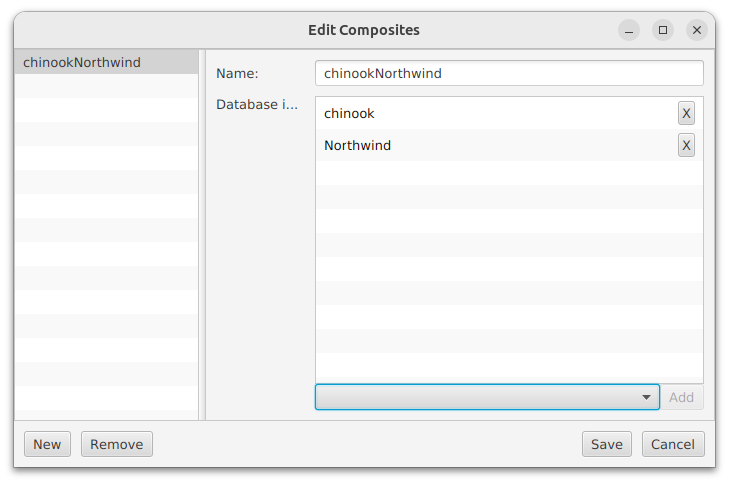
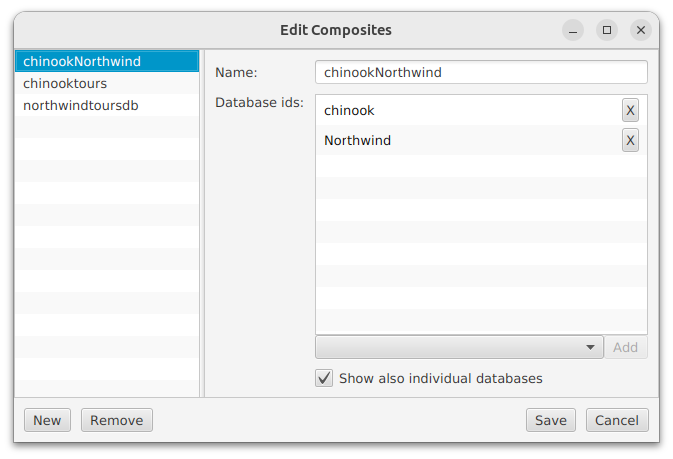
documentation fix

Changed region(s): [[0.0, 0.0, 0.9985, 0.976]]

diff --git a/docs/Compositest-editor.md b/docs/Compositest-editor.md
@@ -20,14 +20,17 @@ Once a composite is chosen on the list, the right side of the editor shows the d
 The databases must be **already in the databases list** of DBTarzan, which means that connections to them have been created in DBTarzan.
 
 
-To **add** a new connection, click on the **New** button. A new composite is added to the list, with name <NEW> and the other fields empty.
+To **add** a new composite, click on the **New** button. A new composite is added to the list, with name <NEW> and the other fields empty.
 The new definition is immediately selected, showing its definition on the left. 
 The only field with some content is the Name, showing the <NEW> name. <NEW> is just a temporary name that needs to be changed. 
 Change the name of the composite and fill the other field, then click on **Save**. The composite is added to the list and immediately displayed on the main window.
 
-The list of databases is created:
-* choosing a database from the combo box on the bottom of the list
-* pressing the **Add** button.
+To add a database to the composite:
+* choose a database from the combo box on the bottom of the list
+* press the **Add** button.
+
+If the **Show also individual databases** check box is selected, the databases associated to the composite will continute to be displayed individually 
+in the database list in the main window, otherwise it will be possible to see their content only as part of the composite.
 
 To remove a database from the list click the **X** button on the right of the database name.
 
